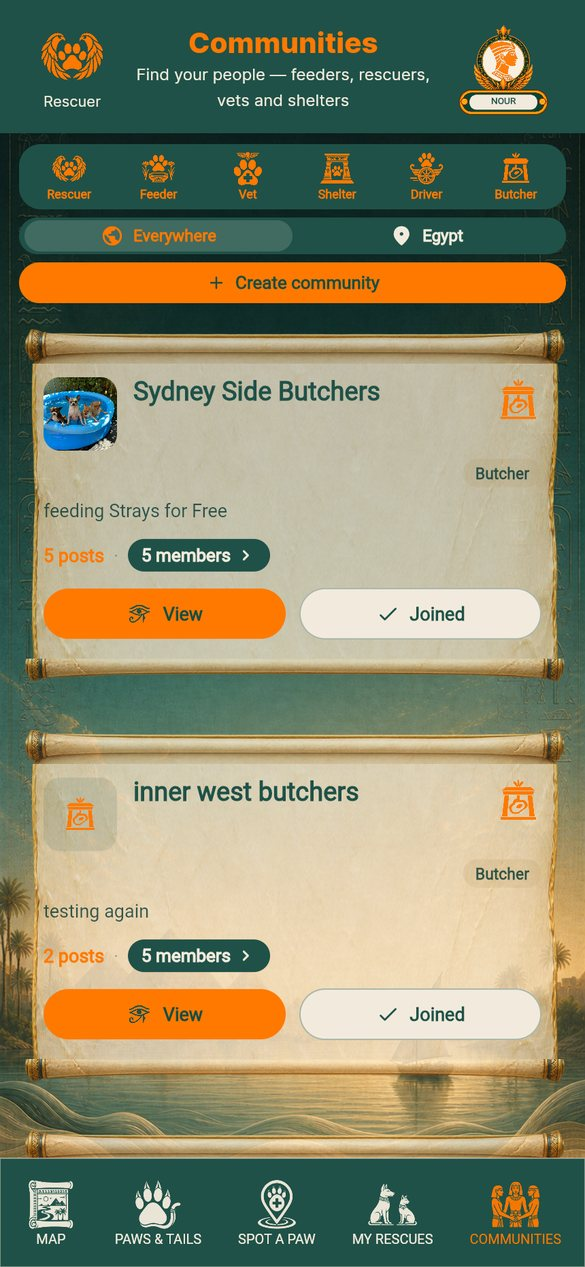
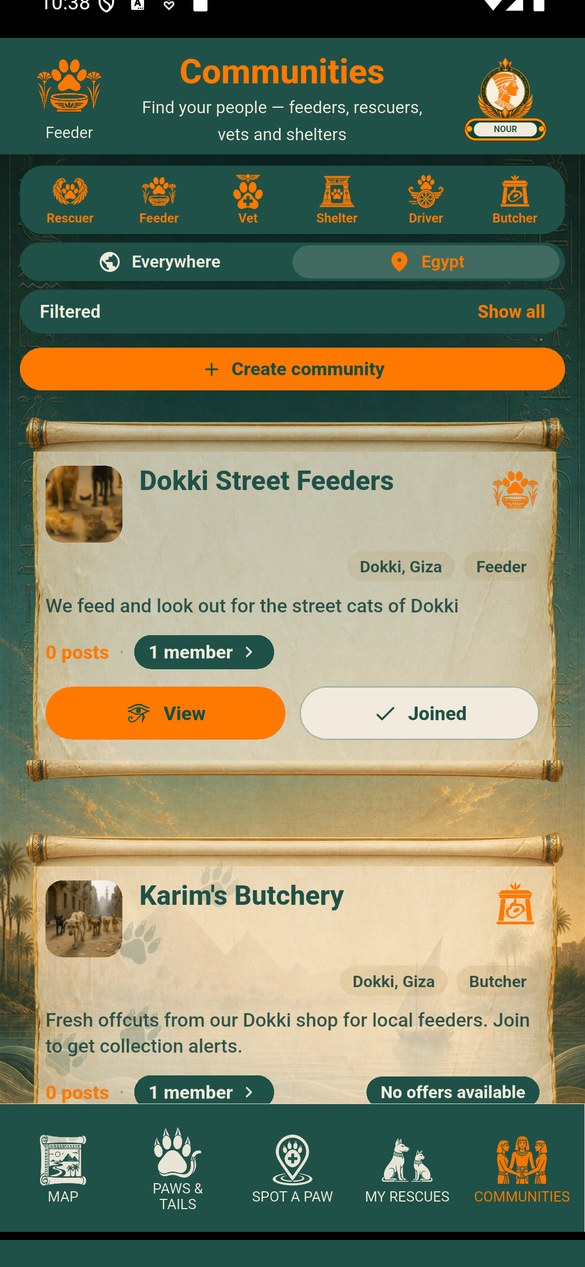
Cairo screenshots replace the Sydney ones (communities, butcher, meat offer); footer no longer names Sydney

diff --git a/ai-ar.html b/ai-ar.html
@@ -244,7 +244,7 @@
     <div>
       <a class="brand" href="index-ar.html"><img src="https://qyyydmjrrtyauyawheos.supabase.co/storage/v1/object/public/report-media/ea87c808-aa49-4286-829b-e69250be5b84/icons/brand_logo_spotpin_v1.png" alt=""> Spot a Paw</a>
       <p style="margin-top:.8rem;max-width:40ch">خريطة إنقاذ حيوانات الشارع. الذراع التقني لـ <a href="https://onetailonemeal.com" target="_blank" rel="noopener">One Tail One Meal</a>.</p>
-      <p>سيدني · القاهرة</p>
+      <p>القاهرة أولاً، ثم حيثما احتاجونا بعدها.</p>
     </div>
     <div>
       <h4>التطبيق</h4>

diff --git a/ai.html b/ai.html
@@ -239,7 +239,7 @@
     <div>
       <a class="brand" href="/"><img src="https://qyyydmjrrtyauyawheos.supabase.co/storage/v1/object/public/report-media/ea87c808-aa49-4286-829b-e69250be5b84/icons/brand_logo_spotpin_v1.png" alt=""> Spot a Paw</a>
       <p style="margin-top:.8rem;max-width:40ch">The rescue map for stray animals. The technology arm of <a href="https://onetailonemeal.com" target="_blank" rel="noopener">One Tail One Meal</a>.</p>
-      <p>Sydney · Cairo</p>
+      <p>Cairo first, then wherever we're needed next.</p>
     </div>
     <div>
       <h4>App</h4>
